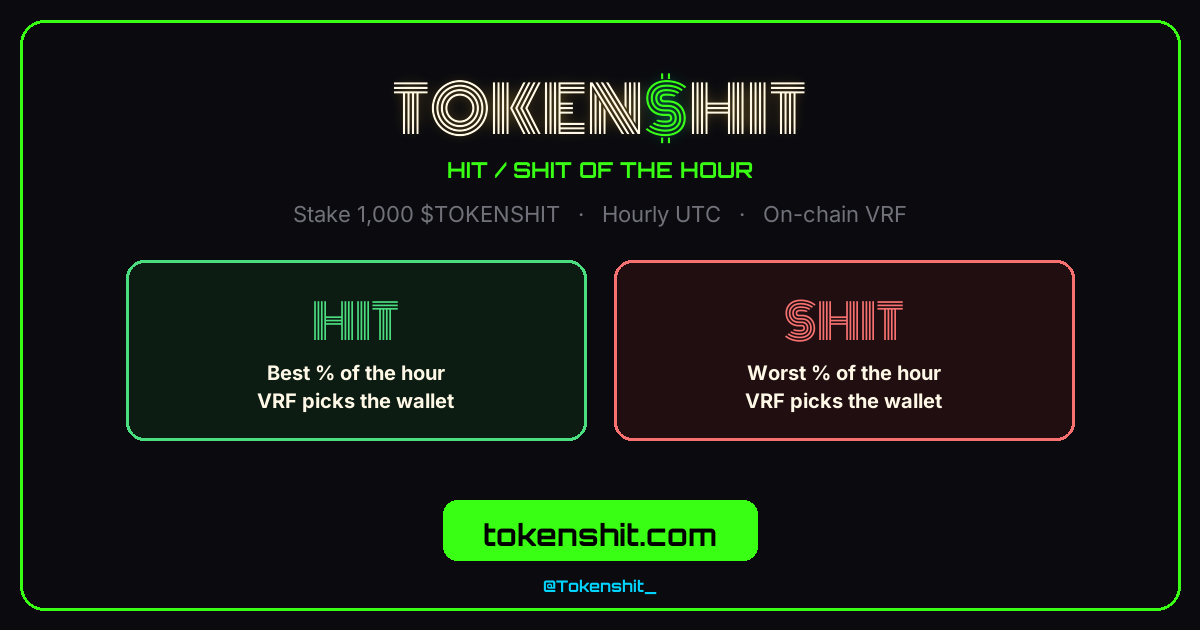
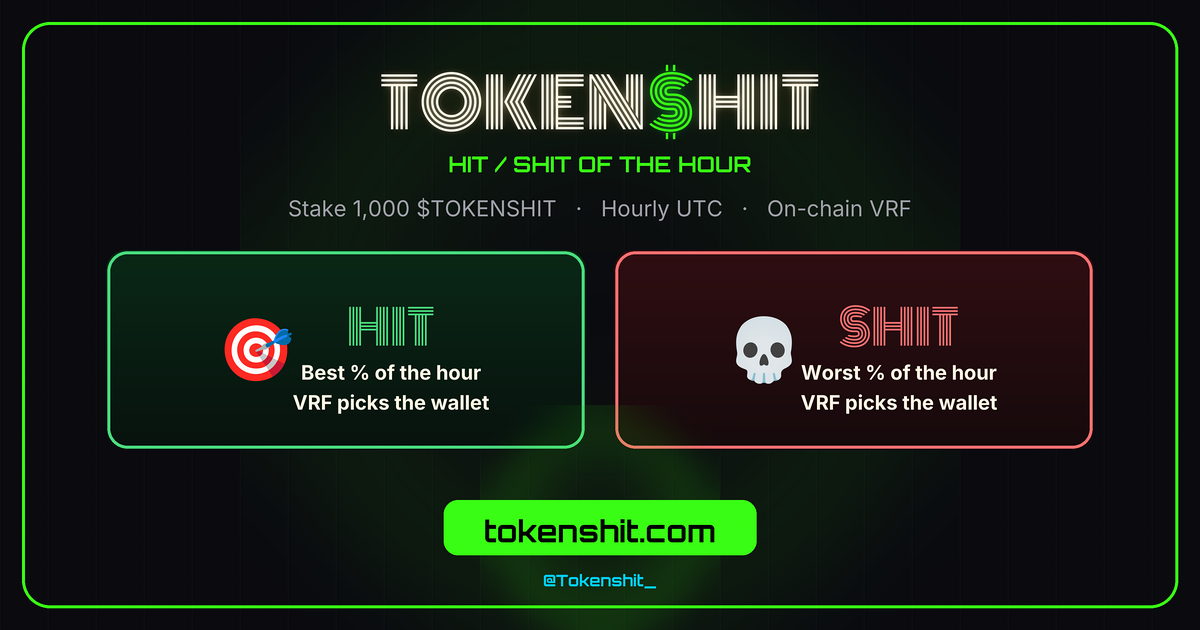
brand: HQ posters with Noto Color Emoji + brand page type note (#152)
3x supersample, Noto glyph PNGs, Monoton lockup; document emoji font.

diff --git a/src/app/brand/page.tsx b/src/app/brand/page.tsx
@@ -234,6 +234,43 @@ export default function BrandPage() {
               Prices, mints, countdowns — never scientific notation
             </p>
           </div>
+          <div className="rounded-xl border border-border bg-card p-5 space-y-3 sm:col-span-2">
+            <p className="text-[10px] uppercase tracking-widest text-zinc-500 font-mono">
+              Icons · {BRAND.fonts.emoji}
+            </p>
+            <p className="flex flex-wrap items-center gap-4 text-3xl leading-none">
+              <span className="emoji" title="HIT">
+                🎯
+              </span>
+              <span className="emoji" title="SHIT">
+                💀
+              </span>
+              <span className="emoji" title="loading">
+                💫
+              </span>
+              <span className="emoji" title="sparkles">
+                ✨
+              </span>
+              <span className="emoji" title="fire">
+                🔥
+              </span>
+            </p>
+            <p className="text-xs text-zinc-500 leading-relaxed">
+              <strong className="text-zinc-300">{BRAND.fonts.emoji}</strong> via{" "}
+              <code className="text-neon-blue">{BRAND.fonts.emojiCss}</code>.
+              Stack: <code className="text-zinc-400">{BRAND.fonts.emojiStack}</code>.
+              Never bare OS default emoji in UI, posters, emails, TG, or X —
+              always Noto through <code className="text-zinc-400">EmojiIcon</code>.
+            </p>
+            <a
+              href={BRAND.fonts.emojiSource}
+              className="text-xs text-neon-blue hover:underline"
+              target="_blank"
+              rel="noopener noreferrer"
+            >
+              fonts.google.com · Noto Color Emoji
+            </a>
+          </div>
         </div>
       </Section>
 
@@ -315,6 +352,10 @@ export default function BrandPage() {
               ["Square", BRAND.logo.assets.logoSquare],
               ["$ mark", BRAND.logo.assets.logoMark],
               ["X banner", BRAND.logo.assets.xBanner],
+              ["Hour poster", BRAND.logo.assets.hitShitHourPoster],
+              ["Hour poster @2x", BRAND.logo.assets.hitShitHourPoster2x],
+              ["Hour banner", BRAND.logo.assets.hitShitHourBanner],
+              ["Hour banner @2x", BRAND.logo.assets.hitShitHourBanner2x],
             ] as const
           ).map(([label, src]) => (
             <a

diff --git a/src/lib/brand.ts b/src/lib/brand.ts
@@ -54,6 +54,12 @@ export const BRAND = {
     display: "Orbitron",
     sans: "Geist",
     mono: "Geist Mono",
+    /** UI icons + confetti — never bare system emoji */
+    emoji: "Noto Color Emoji",
+    emojiCss: ".emoji / .font-emoji / EmojiIcon",
+    emojiStack:
+      '"Noto Color Emoji", "Apple Color Emoji", "Segoe UI Emoji", "Segoe UI Symbol"',
+    emojiSource: "https://fonts.google.com/noto/specimen/Noto+Color+Emoji",
   },
 
   logo: {
@@ -79,6 +85,10 @@ export const BRAND = {
       xBanner: "/brand/x-banner.jpg",
       ogImage: "/brand/og-image.png",
       ogShare: "/brand/og-share.png",
+      hitShitHourPoster: "/brand/hit-shit-hour-poster.png",
+      hitShitHourPoster2x: "/brand/hit-shit-hour-poster@2x.png",
+      hitShitHourBanner: "/brand/hit-shit-hour-banner.png",
+      hitShitHourBanner2x: "/brand/hit-shit-hour-banner@2x.png",
     },
   },
 

diff --git a/public/brand/BRAND.md b/public/brand/BRAND.md
@@ -40,10 +40,23 @@ Source: `src/lib/brand.ts`
 
 | Use | Family |
 |-----|--------|
-| Brand lockup | Monoton |
+| Brand lockup | **Monoton** |
 | Display / HUD | Orbitron |
 | UI body | Geist |
 | Prices / mints | Geist Mono |
+| Icons / emoji / confetti | **Noto Color Emoji** (`.emoji` / `EmojiIcon`) |
+
+CSS stack for icons:
+
+```css
+.emoji, .font-emoji {
+  font-family: "Noto Color Emoji", "Apple Color Emoji", "Segoe UI Emoji",
+    "Segoe UI Symbol";
+  font-variant-emoji: emoji;
+}
+```
+
+Never bare system emoji in UI, posters, emails, TG, or X — always Noto via `.emoji` / `EmojiIcon`.
 
 Prices: plain decimals only (`$0.0000373`), never `3.73e-5`.
 
@@ -77,7 +90,10 @@ Don't: hashtags on X, auto-post, lame daily meme spam, corporate announce-speak.
 | OG / social 1200×630 | `/brand/og-image.png` |
 | OG share (wide lockup) | `/brand/og-share.png` |
 | Hit/Shit hour poster 1080×1350 | `/brand/hit-shit-hour-poster.png` |
+| Hit/Shit hour poster @2x 2160×2700 | `/brand/hit-shit-hour-poster@2x.png` |
 | Hit/Shit hour banner 1200×630 | `/brand/hit-shit-hour-banner.png` |
+| Hit/Shit hour banner @2x 2400×1260 | `/brand/hit-shit-hour-banner@2x.png` |
+| Noto emoji PNGs (icons) | `/brand/emoji/` |
 | Brand fonts (Monoton etc.) | `/brand/fonts/` |
 | Dynamic OG | `/opengraph-image` · `/twitter-image` |
 
